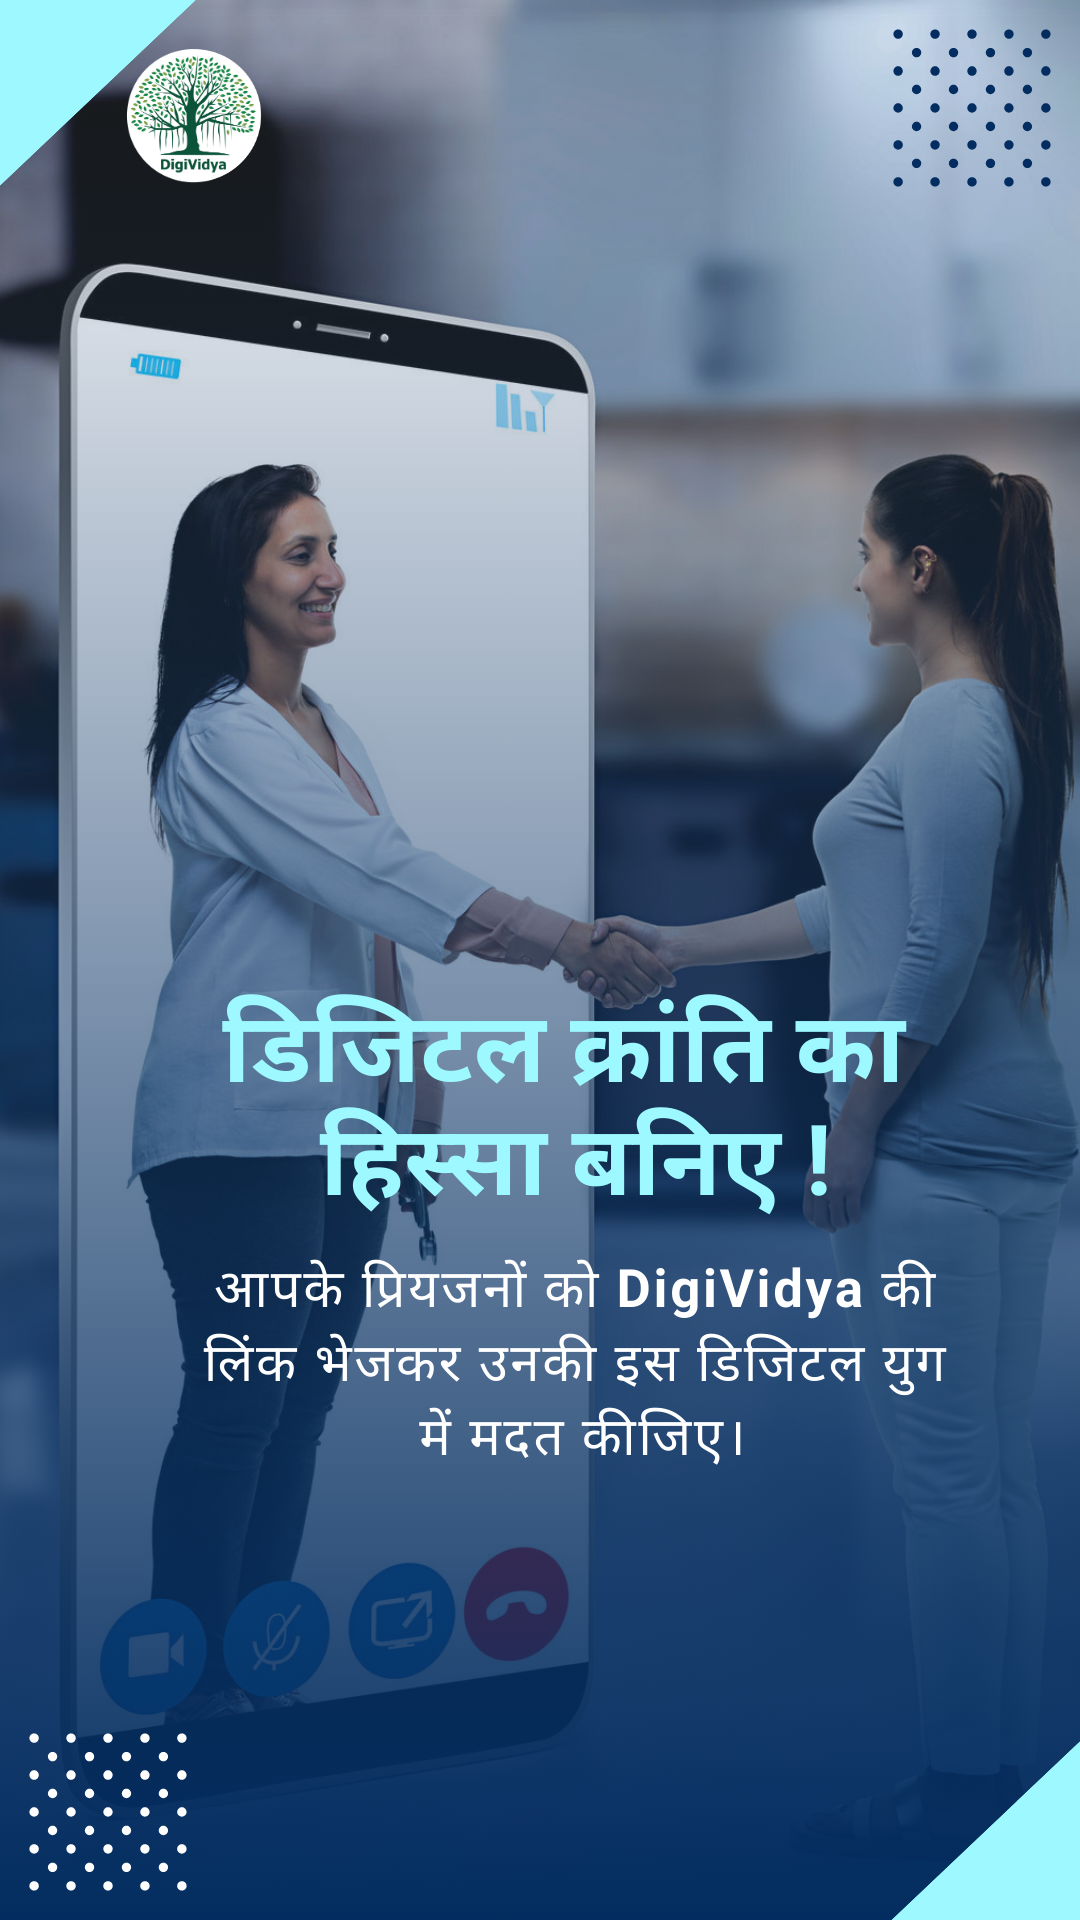
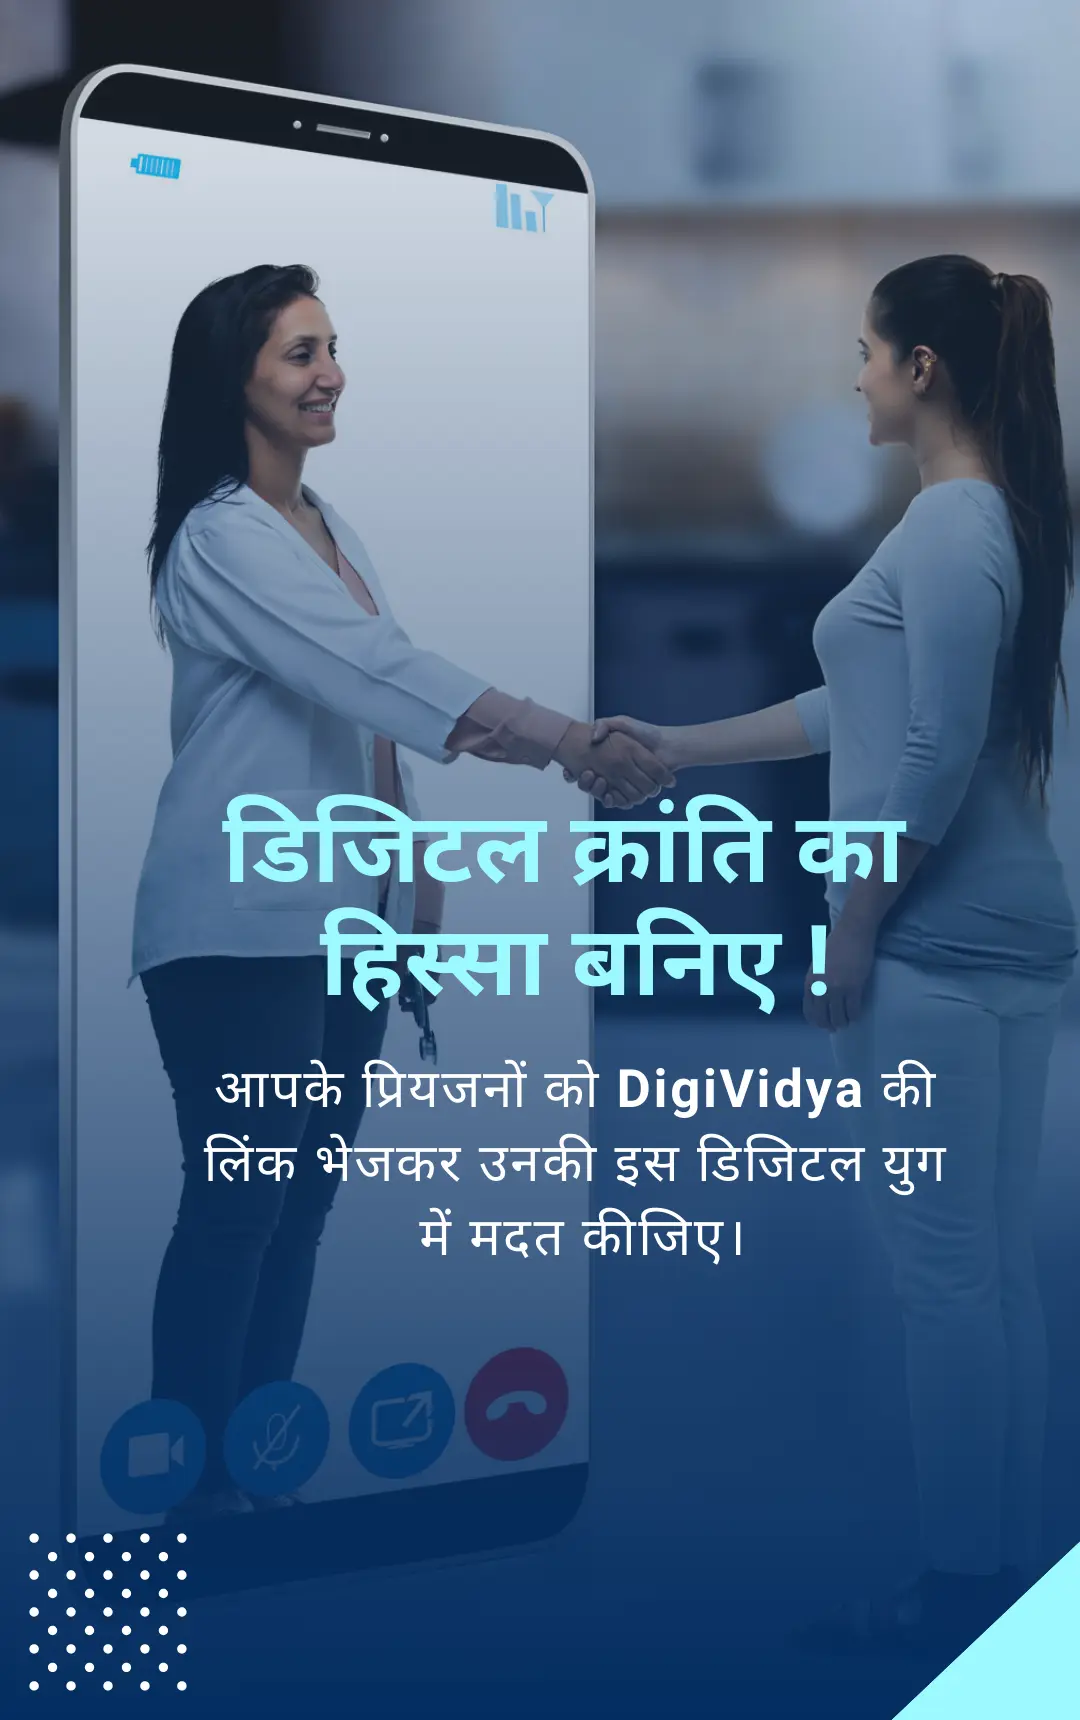
Minner Modification By Bhanu and Manasi

diff --git a/lib/Ads/Banner.dart b/lib/Ads/Banner.dart
@@ -133,7 +133,8 @@ class _banneradState extends State<bannerad> {
           width: MediaQuery.of(context).size.width * 1,
         ),
         Positioned(
-            bottom: MediaQuery.of(context).size.height * 0.128,
+          top: MediaQuery.of(context).size.height*0.63 ,
+            bottom: MediaQuery.of(context).size.height * 0.139,
             left: MediaQuery.of(context).size.width * 0.1,
             right: MediaQuery.of(context).size.width * 0.1,
             child: GestureDetector(
@@ -155,21 +156,22 @@ class _banneradState extends State<bannerad> {
                   case "hindi":
                     whatsAppInviteImage = 'assets/images/HindiInvitation.webp';
                     break;
-                  case "english":
-                    whatsAppInviteImage =
-                        'assets/images/Englishinvitation.webp';
-                    break;
+                  // case "english":
+                  //   whatsAppInviteImage =
+                  //       'assets/images/Englishinvitation.webp';
+                  //   break;
                   default:
                 }
 
                 CallSharedImg(imagePath: whatsAppInviteImage);
 
-                print(
-                    "Banner height: ${_bannerAd.size.height.toDouble()} Banner Width : ${_bannerAd.size.width.toDouble()}");
+                // print(
+                //     "Banner height: ${_bannerAd.size.height.toDouble()} Banner Width : ${_bannerAd.size.width.toDouble()}");
               },
               child: Container(
-                height: MediaQuery.of(context).size.height * 0.05,
+                height: MediaQuery.of(context).size.height / 15,
                 width: MediaQuery.of(context).size.width * 0.3,
+                padding: EdgeInsets.symmetric(horizontal: 10,vertical: 10),
                 decoration: BoxDecoration(
                     border: Border.all(color: Colors.white),
                     borderRadius: BorderRadius.only(
@@ -195,7 +197,7 @@ class _banneradState extends State<bannerad> {
               ),
             )),
         Positioned(
-            top: MediaQuery.of(context).size.height * 0.665,
+            top: MediaQuery.of(context).size.height * 0.685,
             left: MediaQuery.of(context).size.width * 0.3,
             right: MediaQuery.of(context).size.width * 0.3,
             bottom: MediaQuery.of(context).size.height * 0.02,
@@ -228,7 +230,7 @@ class _banneradState extends State<bannerad> {
             right: MediaQuery.of(context).size.width * 0.02,
             child: _isAdloades
                 ? Container(
-                    height: _bannerAd.size.height.toDouble(),
+                    height: _bannerAd.size.height.toDouble()* 0.8,
                     width: _bannerAd.size.width.toDouble(),
                     child: AdWidget(ad: _bannerAd),
                   )
@@ -271,21 +273,21 @@ class _banneradState extends State<bannerad> {
       case "marathi":
         setState(() {
           inviteImage = 'assets/images/marathi.webp';
-          ButtonText = "आपल्या मित्रांना मदत करण्यासाठी येथे क्लिक करा";
+          ButtonText = " मदत करण्यासाठी येथे क्लिक करा.";
         });
         break;
       case "hindi":
         setState(() {
           inviteImage = "assets/images/hindi.webp";
-          ButtonText = "अपने दोस्तों की मदद करने के लिए यहाँ क्लिक करें";
+          ButtonText = "मदद के लिए यहां क्लिक करें.";
         });
         break;
-      case "english":
-        setState(() {
-          inviteImage = "assets/images/english.webp";
-          ButtonText = "Click here to help your friends";
-        });
-        break;
+      // case "english":
+      //   setState(() {
+      //     inviteImage = "assets/images/english.webp";
+      //     ButtonText = "Click here to help your friends";
+      //   });
+      //   break;
       default:
     }
   }

diff --git a/lib/screens/Profile2.dart b/lib/screens/Profile2.dart
@@ -112,22 +112,22 @@ class _Profile2State extends State<Profile2> {
           Column(
             children: [
               Padding(padding: EdgeInsets.fromLTRB(5, 40, 5, 10)),
-              Container(
-                margin: EdgeInsets.all(12),
-                height: MediaQuery.of(context).size.height * 0.065,
-                width: MediaQuery.of(context).size.width * 0.69,
-                child: OutlinedButton.icon(
-                  icon: Icon(Icons.supervised_user_circle_sharp),
-                  label: Text("Profile"),
-                  onPressed: () => print("it's pressed"),
-                  style: ElevatedButton.styleFrom(
-                    side: BorderSide(width: 1.0, color: Colors.blue),
-                    shape: RoundedRectangleBorder(
-                      borderRadius: BorderRadius.circular(32.0),
-                    ),
-                  ),
-                ),
-              ),
+              // Container(
+              //   margin: EdgeInsets.all(12),
+              //   height: MediaQuery.of(context).size.height * 0.065,
+              //   width: MediaQuery.of(context).size.width * 0.69,
+              //   child: OutlinedButton.icon(
+              //     icon: Icon(Icons.supervised_user_circle_sharp),
+              //     label: Text("Profile"),
+              //     onPressed: () => print("it's pressed"),
+              //     style: ElevatedButton.styleFrom(
+              //       side: BorderSide(width: 1.0, color: Colors.blue),
+              //       shape: RoundedRectangleBorder(
+              //         borderRadius: BorderRadius.circular(32.0),
+              //       ),
+              //     ),
+              //   ),
+              // ),
               Container(
                 margin: EdgeInsets.all(15),
                 height: MediaQuery.of(context).size.height * 0.065,

diff --git a/test/widget_test.dart b/test/widget_test.dart
@@ -1,0 +1,30 @@
+// This is a basic Flutter widget test.
+//
+// To perform an interaction with a widget in your test, use the WidgetTester
+// utility in the flutter_test package. For example, you can send tap and scroll
+// gestures. You can also use WidgetTester to find child widgets in the widget
+// tree, read text, and verify that the values of widget properties are correct.
+
+import 'package:flutter/material.dart';
+import 'package:flutter_test/flutter_test.dart';
+
+import 'package:digividya_2023/main.dart';
+
+void main() {
+  testWidgets('Counter increments smoke test', (WidgetTester tester) async {
+    // Build our app and trigger a frame.
+    await tester.pumpWidget(const MyApp());
+
+    // Verify that our counter starts at 0.
+    expect(find.text('0'), findsOneWidget);
+    expect(find.text('1'), findsNothing);
+
+    // Tap the '+' icon and trigger a frame.
+    await tester.tap(find.byIcon(Icons.add));
+    await tester.pump();
+
+    // Verify that our counter has incremented.
+    expect(find.text('0'), findsNothing);
+    expect(find.text('1'), findsOneWidget);
+  });
+}
